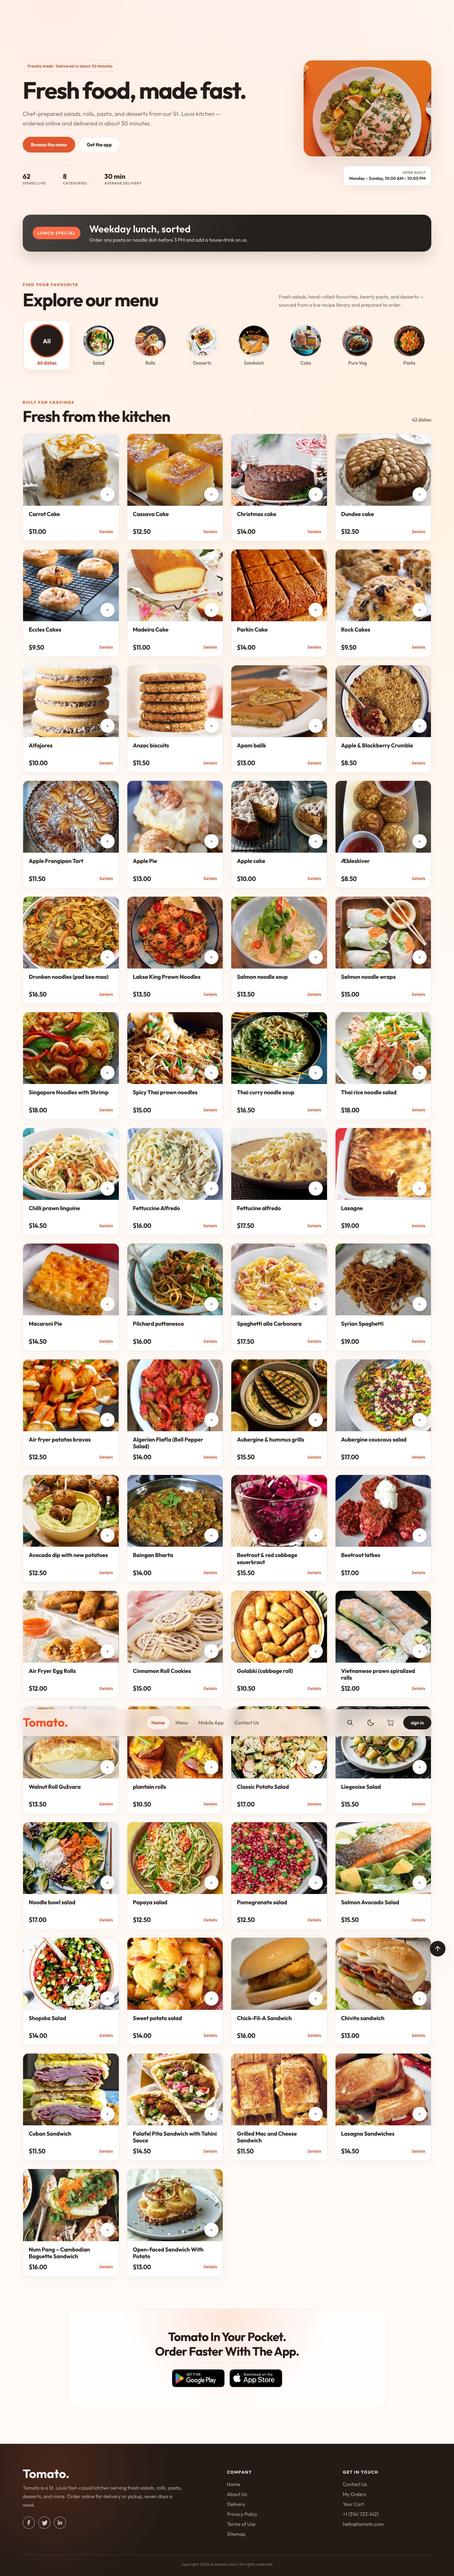
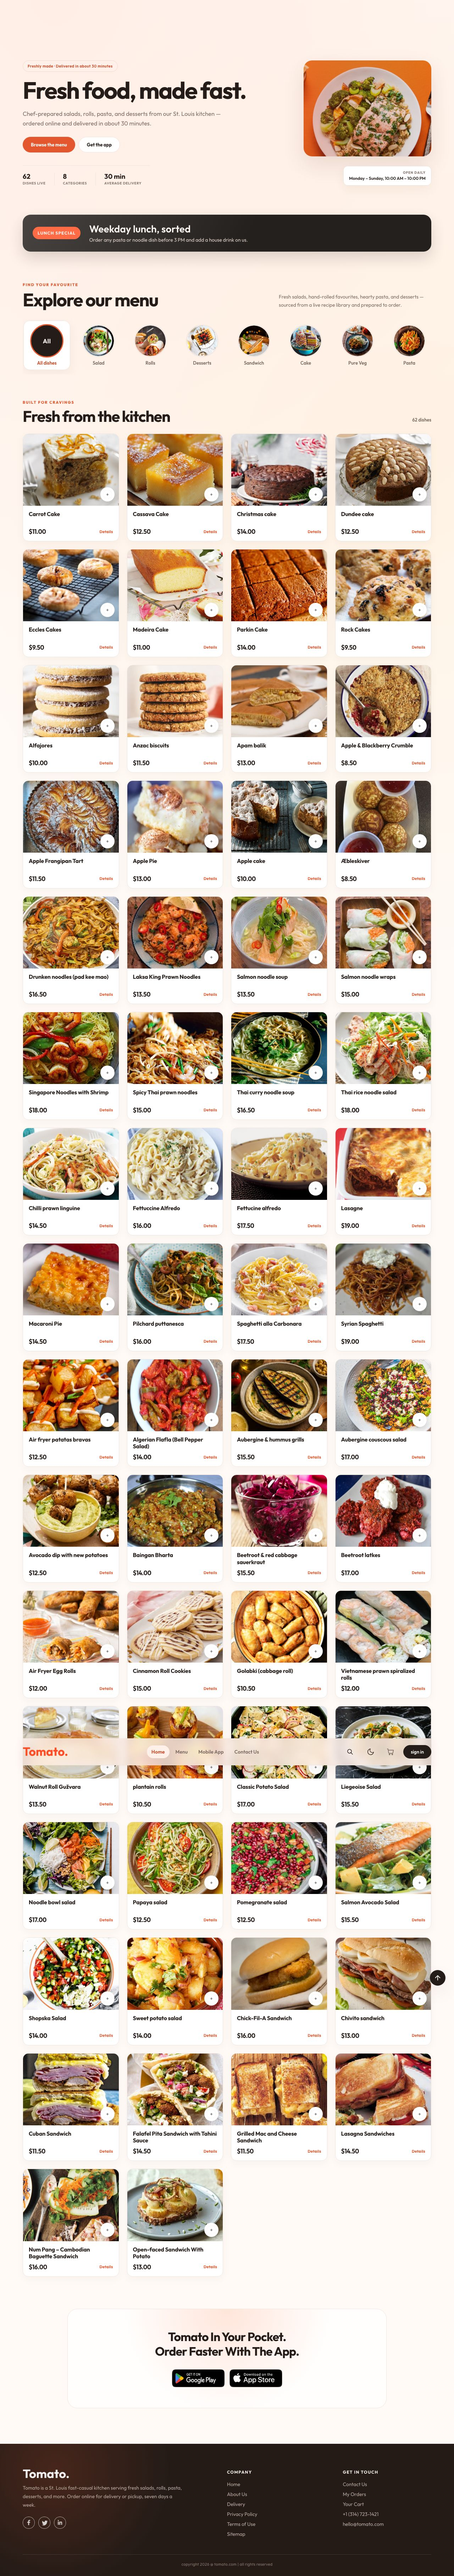
Add Playwright screenshot helper and update Tomato image

Changed region(s): [[0.0312, 0.6548, 0.9688, 0.686], [0.9375, 0.7483, 1.0, 0.7795]]

diff --git a/scripts/capture-screenshot.js b/scripts/capture-screenshot.js
@@ -1,0 +1,30 @@
+const { chromium } = require("playwright");
+
+const url = process.argv[2];
+const output = process.argv[3];
+
+(async () => {
+	const browser = await chromium.launch();
+	const page = await browser.newPage({ viewport: { width: 1280, height: 720 } });
+	await page.goto(url, { waitUntil: "networkidle", timeout: 60000 });
+
+	await page.evaluate(async () => {
+		await new Promise((resolve) => {
+			let totalHeight = 0;
+			const distance = 300;
+			const timer = setInterval(() => {
+				const scrollHeight = document.body.scrollHeight;
+				window.scrollBy(0, distance);
+				totalHeight += distance;
+				if (totalHeight >= scrollHeight) {
+					clearInterval(timer);
+					resolve();
+				}
+			}, 100);
+		});
+	});
+
+	await page.waitForTimeout(3000);
+	await page.screenshot({ path: output, fullPage: true });
+	await browser.close();
+})();
